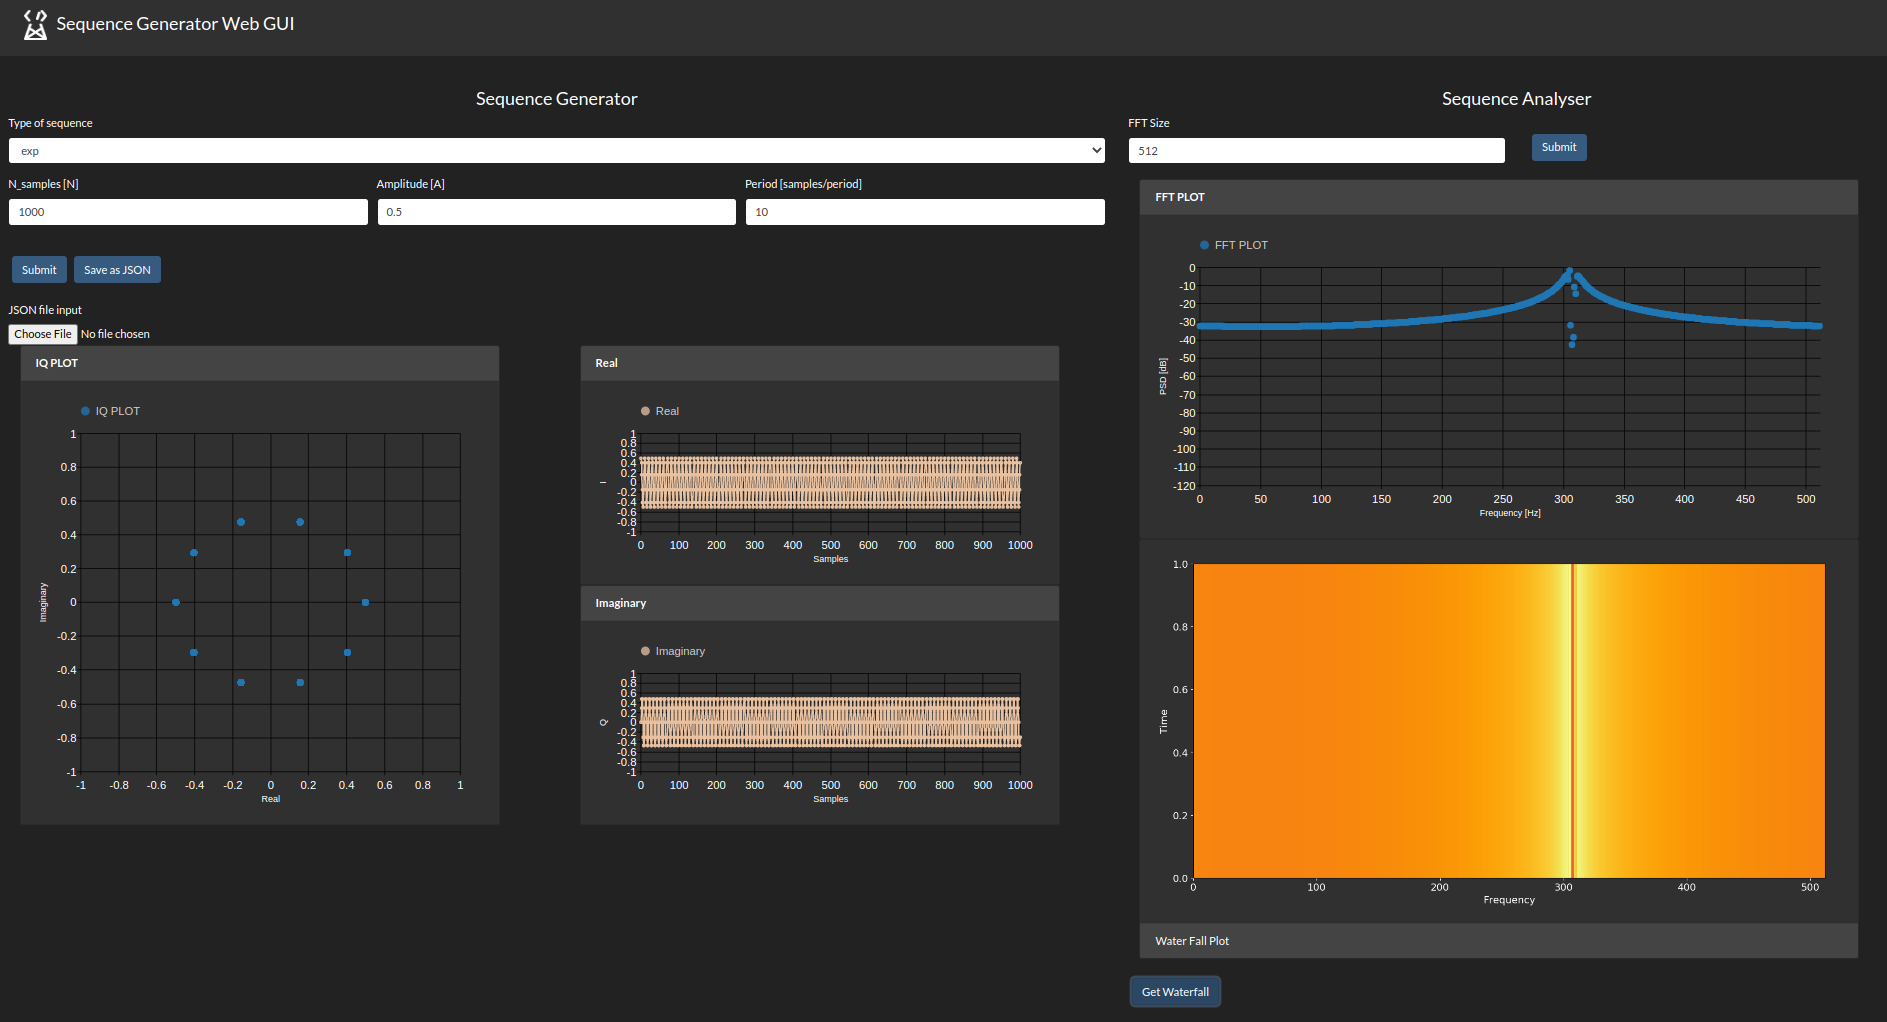
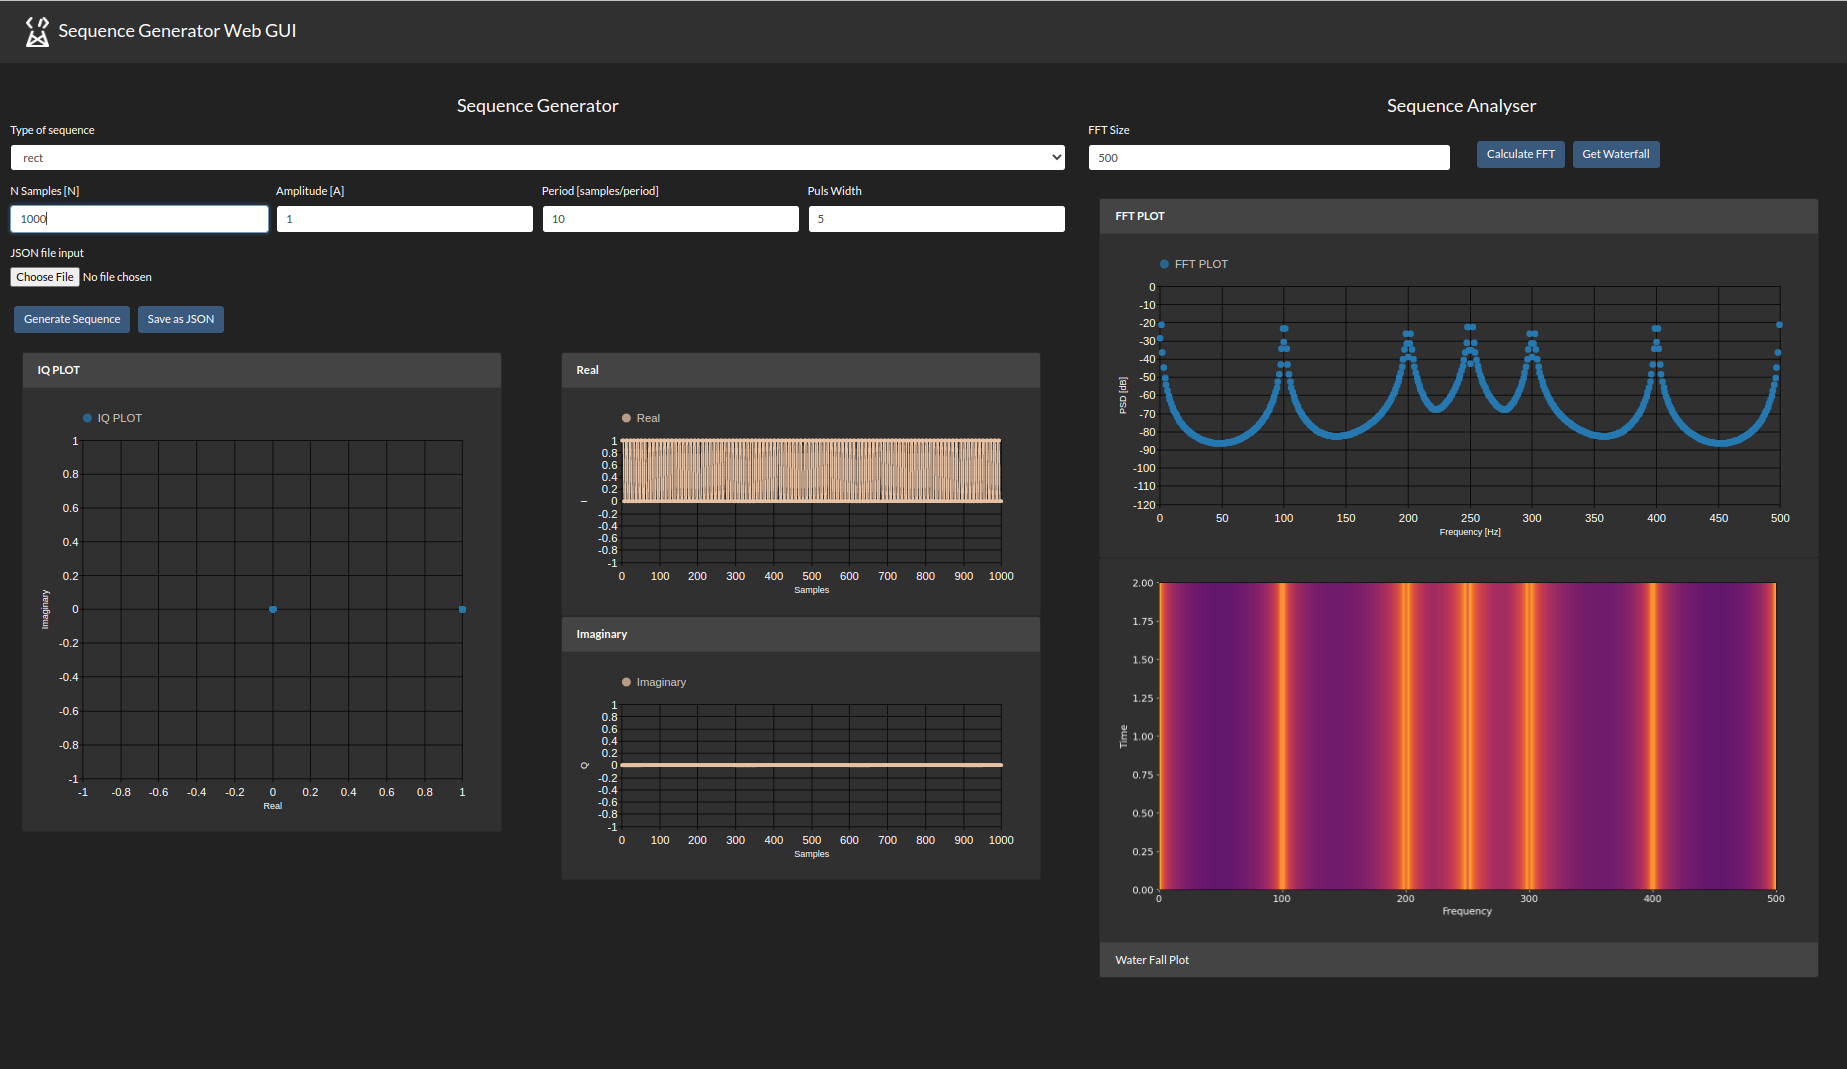
bug fix and new webgui png

diff --git a/front-end/src/components/TxForm.js b/front-end/src/components/TxForm.js
@@ -22,12 +22,12 @@ function TxForm({onPlotUpdate}) {
         "period":Number(t),
         "zaddoff_chu_root":Number(zadoffChuRootSeq),
         "puls_width":Number(pulsWidth),
-        "seq_samples":{"real":[],
+        "iq_samples":{"real":[],
                        "imag":[]}
     })
   .then(function (response) {
-    onPlotUpdate(response.data.seq_samples);
-    setFile(JSON.stringify(response.data));
+    onPlotUpdate(response.data.iq_samples);
+    setFile(JSON.stringify(response.data.iq_samples));
   })
   .catch(function (error) {
     console.log(error);
@@ -39,7 +39,7 @@ const handleChange = (e) => {
   fileReader.readAsText(e.target.files[0], "UTF-8");
   fileReader.onload = (e) => {
     const newFileData = JSON.parse(e.target.result);
-    onPlotUpdate(newFileData.seq_samples);
+    onPlotUpdate(newFileData);
   };
 };
 

diff --git a/back-end/sequences.py b/back-end/sequences.py
@@ -33,13 +33,27 @@ def pss(n_samples=61,N=0,amp=.5,T=PERIOD,puls_width=N_SAMPLES/2):
 def cos_squared(n_samples=N_SAMPLES,T=PERIOD,amp=.5,N=0,puls_width=N_SAMPLES/2):
     return cos(n_samples,T,amp,N,puls_width) **2
 
-def rect(n_samples=61,N=0,amp=.5,T=PERIOD,puls_width=N_SAMPLES/2):
+def rect(n_samples=N_SAMPLES,T=PERIOD,amp=.5,N=0,puls_width=N_SAMPLES/2):
     rect = np.arange(n_samples) % T < puls_width
     return amp * np.array([float(sample) for sample in rect],dtype=np.complex64)
 
-def shape_signal(sig_seq=pss(), stretch_factor=10, repetition_factor= 10):
-    s = np.kron(sig_seq, np.ones(stretch_factor))
-    return np.kron(np.ones(repetition_factor), s)
+# def shaped(n_samples=N_SAMPLES,T=PERIOD,amp=.5,N=0,puls_width=N_SAMPLES/2):
+#     rect_pulse = rect(n_samples,T,amp,N,puls_width)
+#     shaper = np.arange(1/puls_width,1.1,1/puls_width,dtype=float)
+#     shaper = np.kron(np.ones(int(n_samples/T)*2), shaper)
+#     result = shaper * rect_pulse
+#     return result
+
+# def shape_signal(sig_seq=pss(), stretch_factor=10, repetition_factor= 10):
+#     s = np.kron(sig_seq, np.ones(stretch_factor))
+#     return np.kron(np.ones(repetition_factor), s)
 
 # List of sequences
-type_of_sequence = {"ones":ones,"exp":exp,"neg_exp":neg_exp,"cos":cos,"pss":pss,"cos^":cos_squared,"rect":rect}
+type_of_sequence = {
+    "ones":ones,
+    "exp":exp,
+    "neg_exp":neg_exp,
+    "cos":cos,
+    "pss":pss,
+    "cos^":cos_squared,
+    "rect":rect}

diff --git a/back-end/main.py b/back-end/main.py
@@ -22,8 +22,8 @@ app.add_middleware(
 @app.post("/get_seq")
 async def get_seq(seq: Sequencs):
     result = type_of_sequence[seq.type_of_seq](n_samples=seq.n_samples,amp=seq.amp,T=seq.period,N=seq.zaddoff_chu_root,puls_width=seq.puls_width)
-    seq.seq_samples.real = [float(x) for x in result.real ]
-    seq.seq_samples.imag = [float(x) for x in result.imag ]
+    seq.iq_samples.real = [float(x) for x in result.real ]
+    seq.iq_samples.imag = [float(x) for x in result.imag ]
     return seq
 
 @app.post("/calc_fft")

diff --git a/back-end/models.py b/back-end/models.py
@@ -22,4 +22,4 @@ class Sequencs(BaseModel):
     period:float
     puls_width:Optional[int] = 0
     zaddoff_chu_root:Optional[int] = 0
-    seq_samples:IQ_Samples
+    iq_samples:IQ_Samples

diff --git a/readme.md b/readme.md
@@ -1,6 +1,7 @@
 # Front-End and Back-End Implementation for HTWK sequence generator
 This readme file includes the start-up instructions for running the sequence generator/analyzer.
-
+## Prerequisites
+git, python3-venv, python3-pip, uvicorn, npm
 ## Back-End 
 The back-end contains the different sequences and fast fourier transform calculations.
 Create venv:
@@ -22,7 +23,7 @@ uvicorn main:app --host 0.0.0.0 --reload
 For documentation: open [This Link](http://localhost:8000/docs)
 
 ## Front-End 
-if node is installed, inside the front-end directory run:
+if npm is installed, inside the front-end directory run:
 Install depandencies:
 ```bash
 npm i
